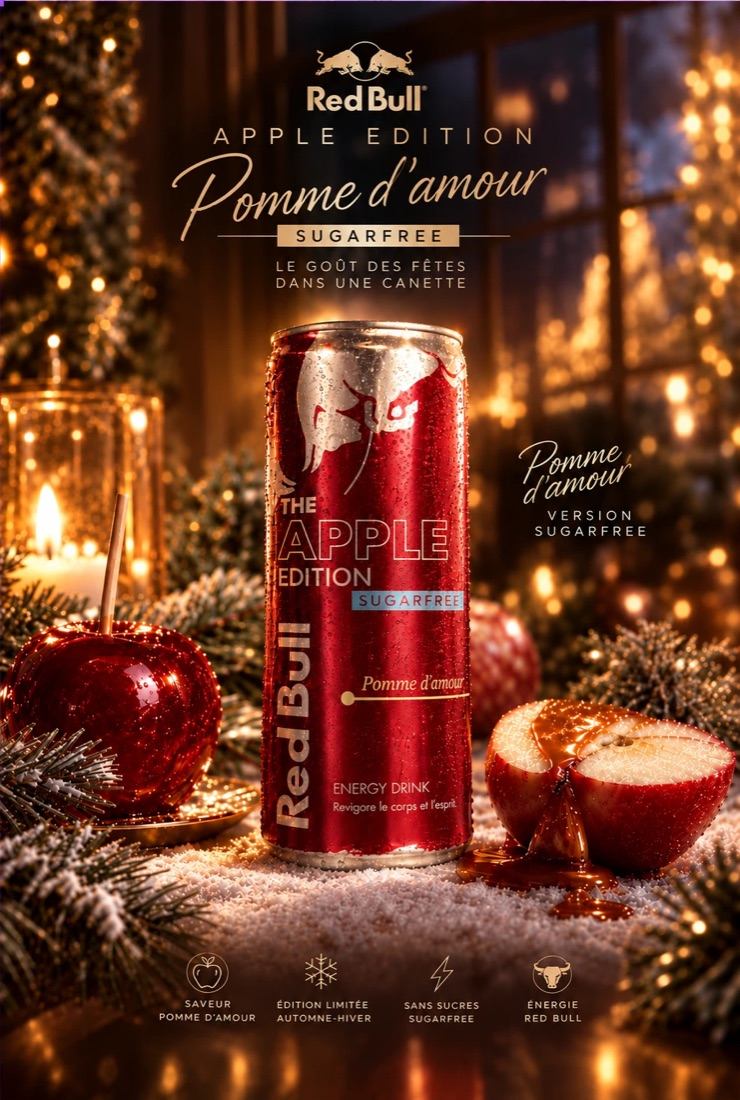
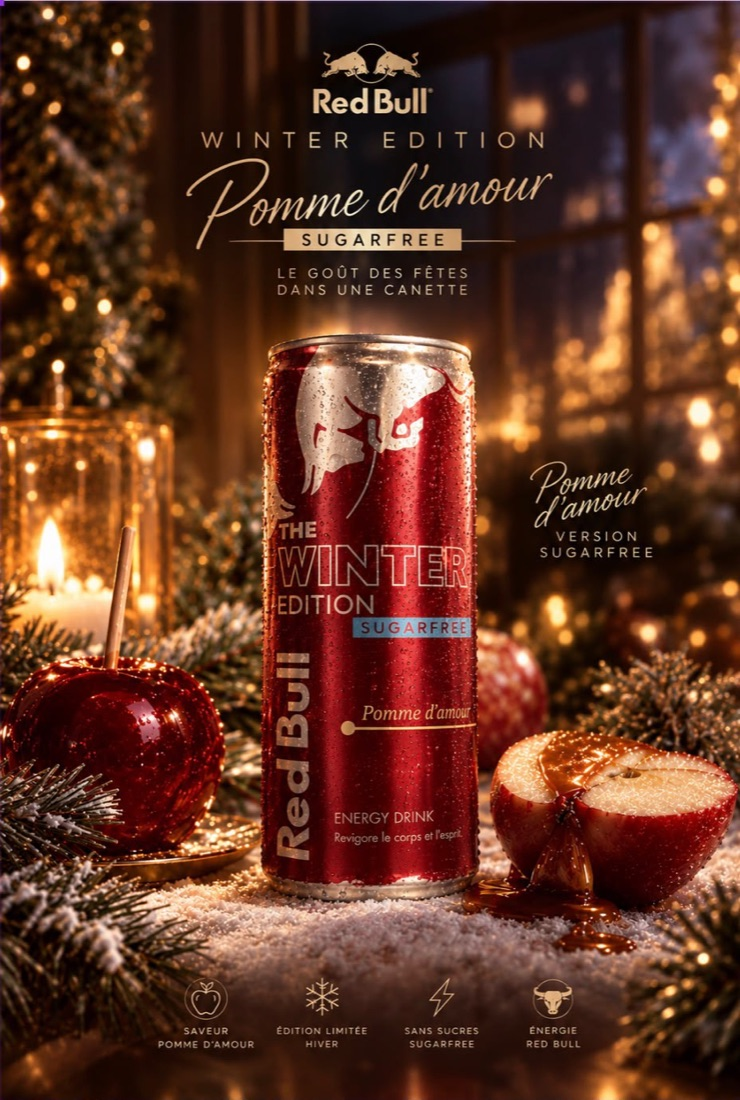
Add files via upload

diff --git a/index.html b/index.html
@@ -89,11 +89,11 @@ const data = {
 };
 const start = Date.now();
 
-// --- L'offre : même texte en A et en B ; seule l'affiche change (A : « Winter Edition » + bandeau « Édition limitée », B : « Apple Edition ») ---
+// --- L'offre : même texte en A et en B ; seule l'affiche change (« Winter Edition » dans les deux ; A porte en plus le bandeau « Édition limitée ») ---
 function offerHtml() {
   return `<div class="offer">
-      <div class="visual"><img src="canette-${version.toLowerCase()}.jpg" alt="Canette Red Bull Sugarfree, goût pomme d'amour"></div>
-      <p><strong>Red Bull Sugarfree, goût pomme d'amour</strong></p>
+      <div class="visual"><img src="canette-${version.toLowerCase()}.jpg" alt="Canette Red Bull Winter Edition Sugarfree, goût pomme d'amour"></div>
+      <p><strong>Red Bull Winter Edition Sugarfree, goût pomme d'amour</strong></p>
       <ul>
         <li>Canette de 25 cl</li>
         <li>Sans sucres</li>
